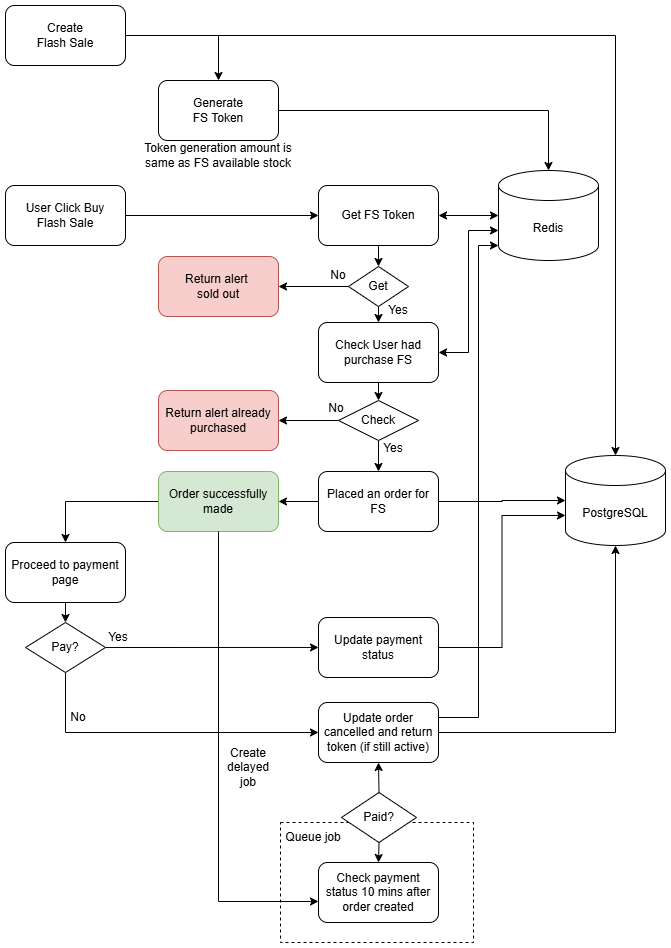
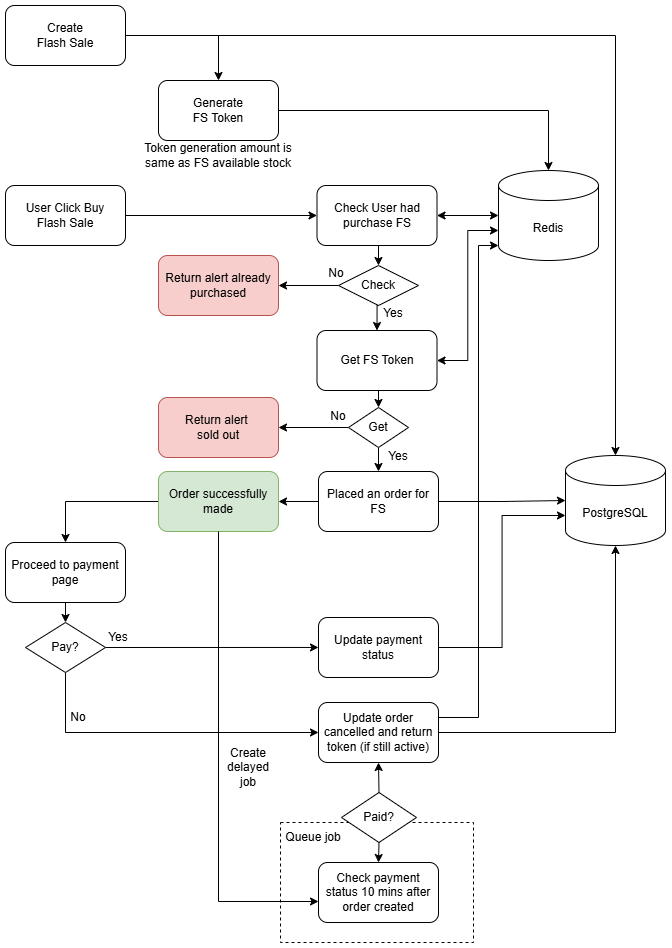
Update README.md

diff --git a/README.md b/README.md
@@ -1,6 +1,8 @@
 # Flash Sale Platform
 
-This repo is to test flash sale condition and its handling
+This project implements a simplified **flash sale platform** designed to handle extremely high concurrency while preventing overselling and enforcing a one-item-per-user policy.
+
+The system simulates a real-world flash sale scenario where thousands of users attempt to purchase a limited-stock product simultaneously.
 
 ## System Architecture
 
@@ -8,19 +10,96 @@ This repo is to test flash sale condition and its handling
 
 The following stacks are chosen for this flash sale project:
 
-- Backend: NestJS. Coming from Java Spring boot background, this is the closest Javascript framework similar to Spring Boot, which provides module system, dependency injection, and etc.
-- Frontend: React and Tailwind CSS.
-- Database: PostgreSQL
-- Cache: Redis
-- Message Queue: Redis
+### Backend
+
+- **NestJS**
+
+Coming from Java Spring boot background, this is the closest Javascript framework similar to Spring Boot, which provides a similar architecture:
+
+- Modular structure
+- Dependency Injection
+- Clear separation of concerns
+- Built-in testing support
+
+### Frontend
+
+- **React**
+- **Tailwind CSS**
+
+A minimal UI is implemented to simulate user purchases and test flash sale behavior.
+
+### Database
+
+- **PostgreSQL**
+
+Used for persistent storage of orders and product information.
+
+### Cache / Concurrency Control
+
+- **Redis**
+
+Redis is used for concurrency control to make sure that purchase can be made smoothly without overselling.
 
 ## Flow Diagram
 
 ![flow diagram](docs/img/flow-diagram.png)
+High-level purchase flow:
 
-## Tradeoff
+1. Admin create flash sale
+2. Generate flash sale token upon creation
+3. User click buy on flash sale
+4. API purchase flash sale receive the request
+5. Redis enforces **one purchase per user**
+6. Return 400 if user already purchase, otherwise proceed
+7. Redis **atomically allocates stock token**
+8. Return 400 if not getting token (sold out), otherwise proceed
+9. If token exists → request accepted
+10. Order creation is pushed into queue
+11. Worker processes order and stores it in PostgreSQL
+12. If user pay, update order payment status
+13. If user not pay or abandon order, it will release the stock after 10 minutes to increase available stock to purchase
 
-## What should be implemented in production
+## Non-functional requirements
+
+### Throughput and Scalability
+
+During flash sale events, the system may receive a large number of simultaneous purchase requests.
+
+Design strategies used:
+
+- **Redis-based inventory tokens** to handle high-frequency operations in memory
+- **Asynchronous order processing** via message queue to protect the database
+- **Stateless API services** that can be horizontally scaled across multiple nodes.
+- **Redis as the primary concurrency control layer** to reduce database contention
+
+This architecture allows the system to scale horizontally by adding more API servers and workers.
+
+### Robustness and Fault Tolerance
+
+Flash sale systems must remain stable even when partial failures occur.
+
+Design strategies used:
+
+- **Delayed expiration job** to handle idle order that has not been paid due to user idle or other issue. It will make the quantity recover upon expired.
+- Queue-based order processing with **automatic job retries**. The write to database was delayed with queue and it will be process accordingly.
+
+### Concurrency Control
+
+This is to prevent oversell from the allocated slot. System guarante that user can only purchase once for a flash sale.
+
+System used 2 Redis to achieve the goal:
+
+- It will add email to Redis set
+
+```bash
+SADD flash_sale:<flash_sale_id>:buyers email
+```
+
+- If its success, then we pop the token that being generated upon flash sale creation. If user getting the token, the it can proceed to place an order.
+
+```bash
+RPOP flash_sale:<flash_sale_id>:tokens
+```
 
 ## How to Run the project
 
@@ -33,8 +112,20 @@ The following stacks are chosen for this flash sale project:
 
 1. Clone the repository
 2. Run `docker-compose up -d`
+3. Make sure all services up
+4. Access on `http://localhost:8080` for landing page
+
+If you need to run individually, make sure that you have PostgreSQL and Valkey running for backend service. Update `.env` with reference to `.env.example` in both folder to set the variable accordingly
 
 ## How to test the project
+
+Unit test only available for backend and its utilize `jest`
+
+### Steps:
+
+1. Open `backend` folder
+2. Check `docker-compose.yml` to see if any port that has been used and change accordingly
+3. Run `npm test`
 
 ## How to stress test the project
 
